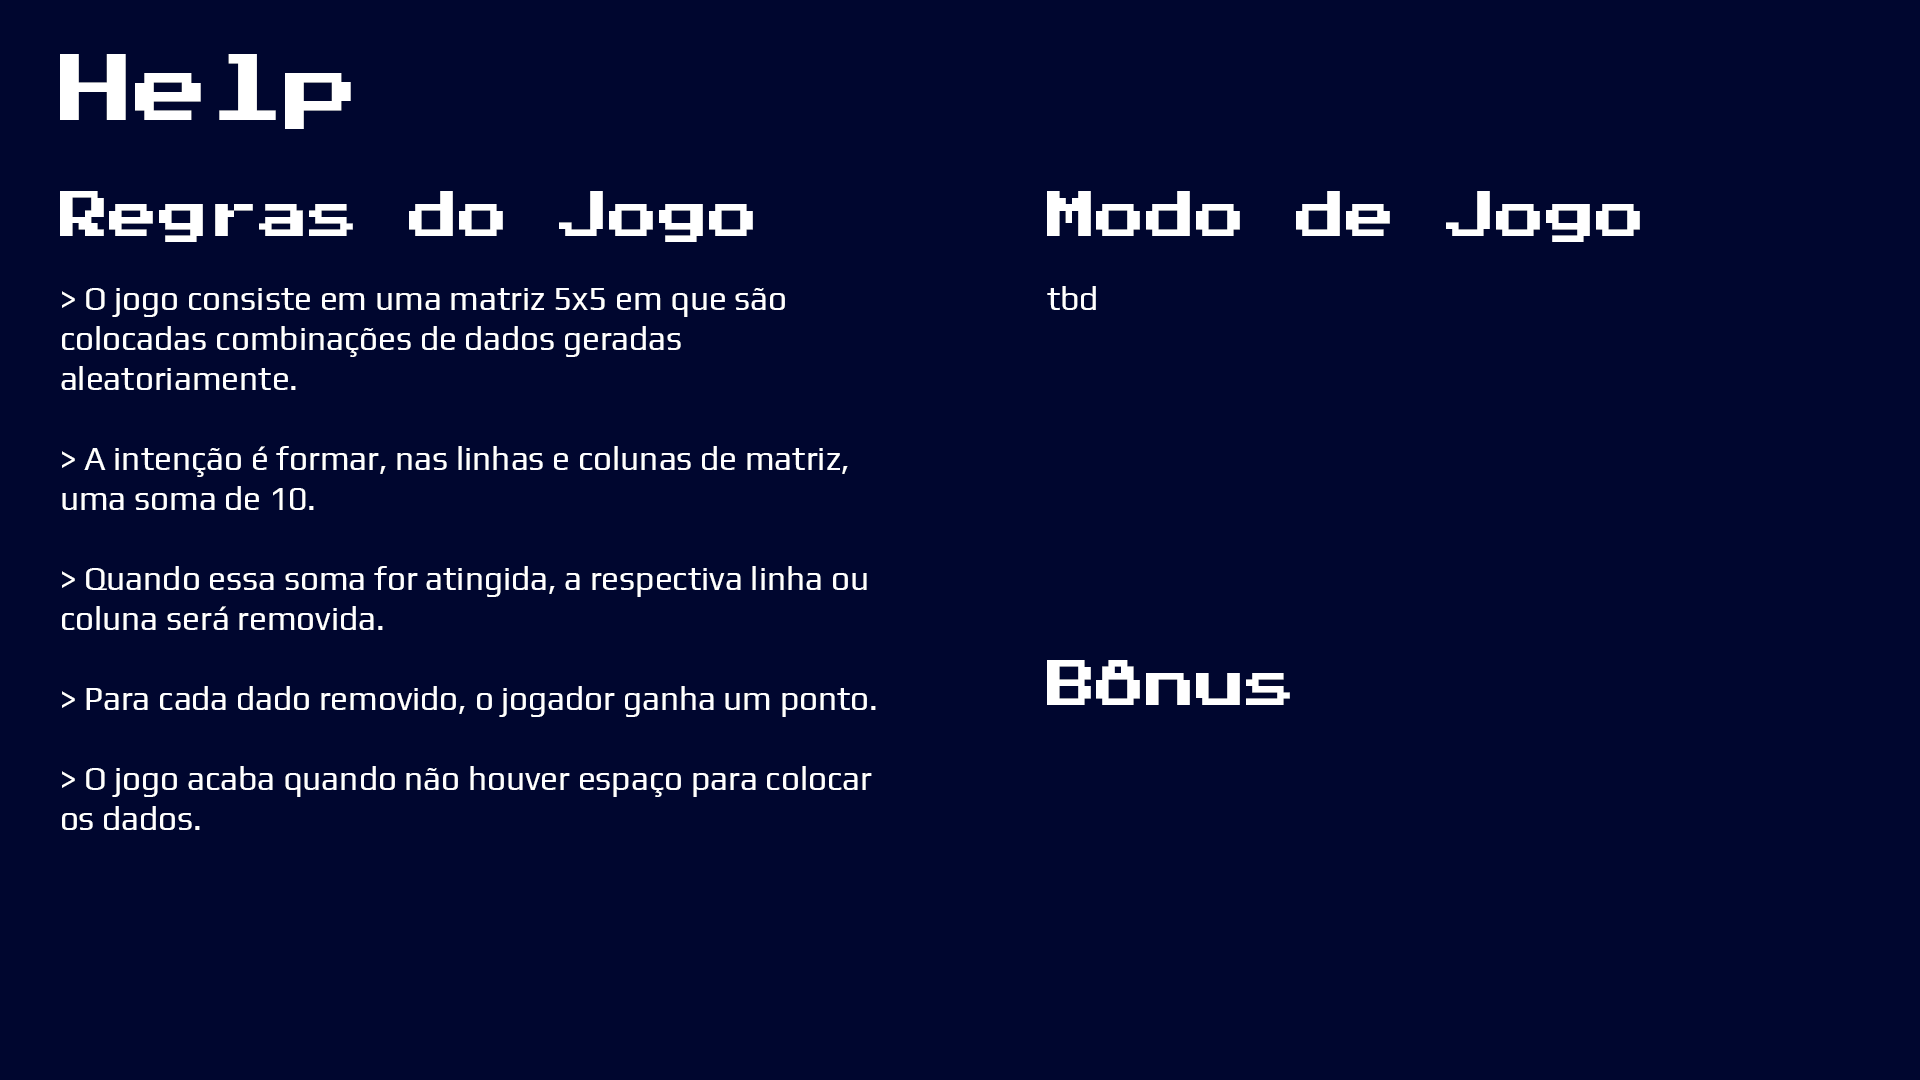
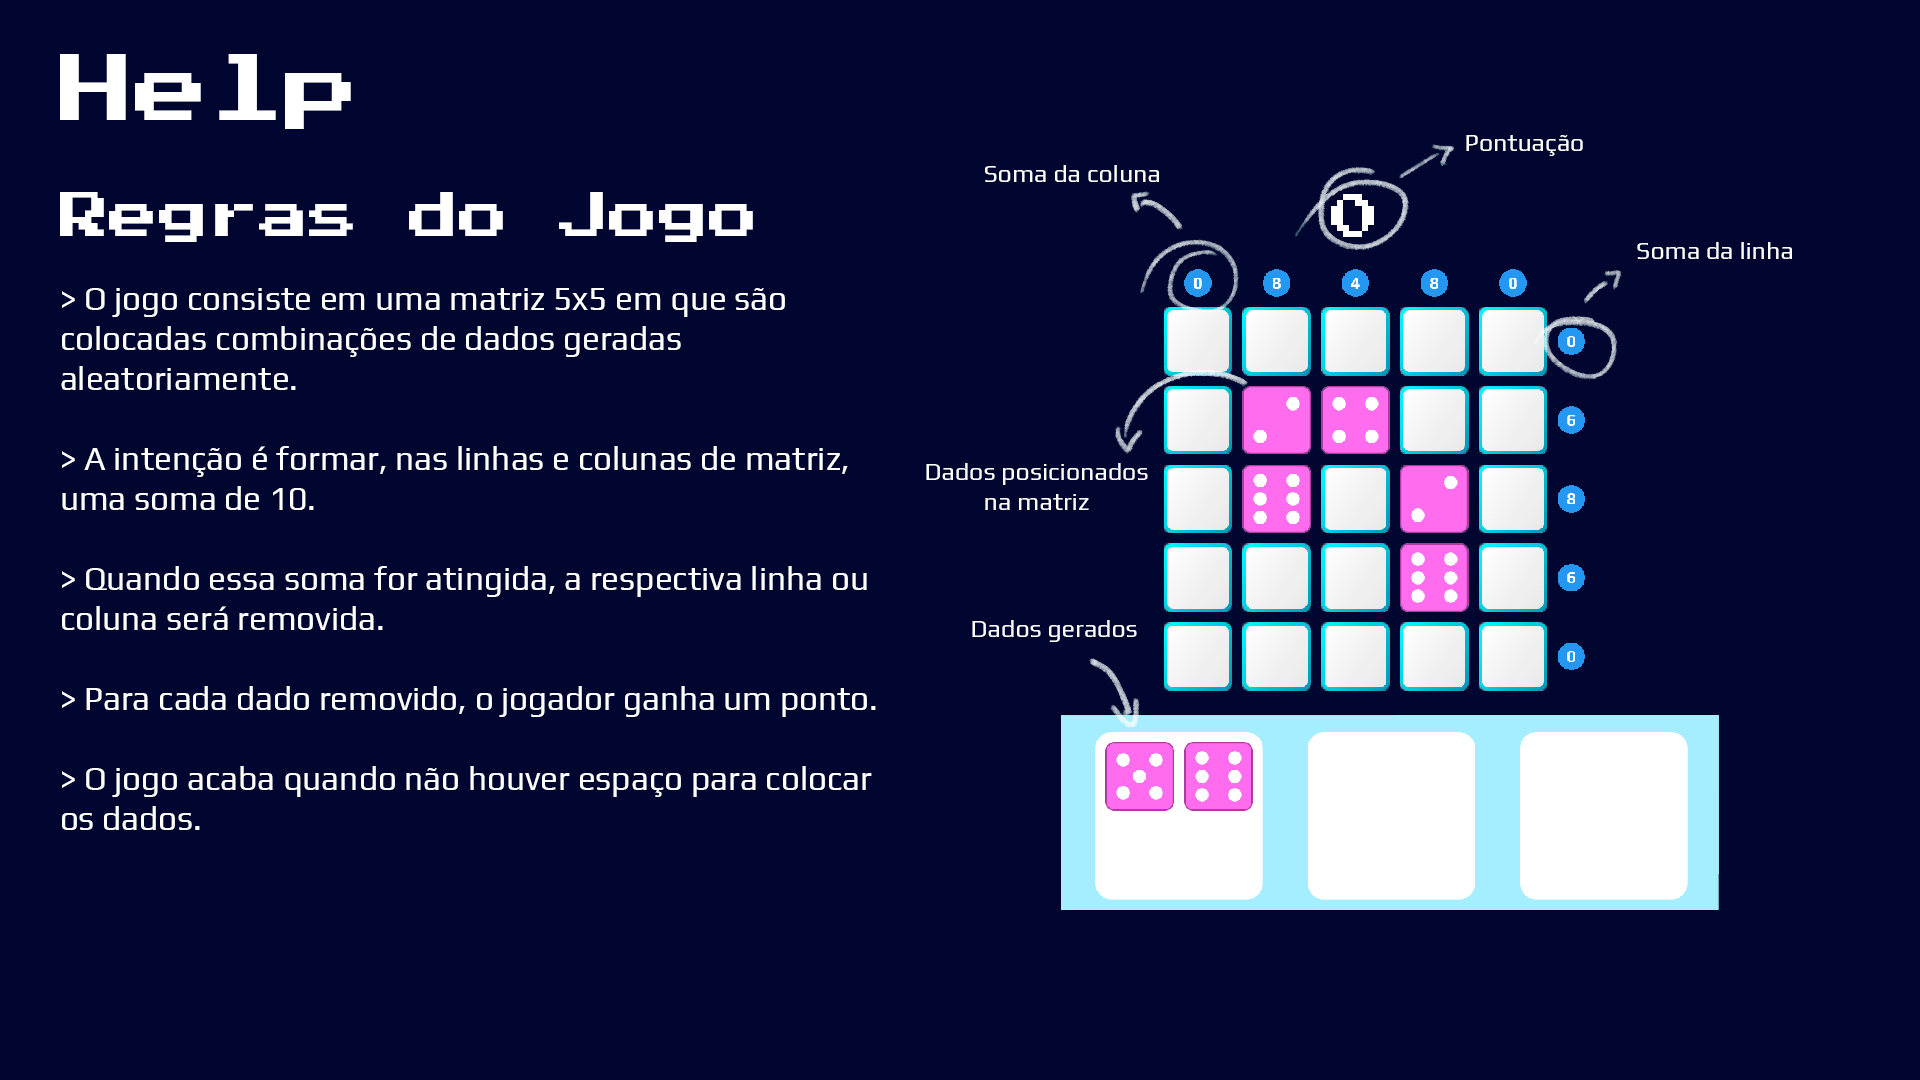
Finaliza help, adiciona easter egg

Changed region(s): [[0.4688, 0.1528, 0.9375, 0.8556], [0.75, 0.1222, 0.8125, 0.1528]]

diff --git a/Final/main.c b/Final/main.c
@@ -1860,12 +1860,13 @@ void help(ALLEGRO_DISPLAY* display)
     ALLEGRO_FONT* font_2p_regular_24 = al_load_ttf_font("media/fonts/PressStart2P-regular.ttf", 24, 0);
     ALLEGRO_TIMER* timer_fps = al_create_timer(1.0 / 60.0);
     ALLEGRO_BITMAP* pag1 = al_load_bitmap("media/images/pag1.png");
-    ALLEGRO_BITMAP* pag2 = al_load_bitmap("media/images/pag1.png");
-    ALLEGRO_BITMAP* pag3 = al_load_bitmap("media/images/pag1.png");
-    ALLEGRO_BITMAP* pag4 = al_load_bitmap("media/images/pag1.png");
+    ALLEGRO_BITMAP* pag2 = al_load_bitmap("media/images/pag2.png");
+    ALLEGRO_BITMAP* pag3 = al_load_bitmap("media/images/pag3.png");
+    ALLEGRO_BITMAP* pag4 = al_load_bitmap("media/images/pag4.png");
     ALLEGRO_BITMAP* botao_voltar = al_load_bitmap("media/images/buttons/voltar.png");
     ALLEGRO_BITMAP* prox_pag = al_load_bitmap("media/images/buttons/prox_pag.png");
     ALLEGRO_BITMAP* botao_menu = al_load_bitmap("media/images/buttons/menu_peq.png");
+    ALLEGRO_BITMAP* easter_egg_image = al_load_bitmap("media/images/easter_egg.jpg");
     
     ALLEGRO_EVENT_QUEUE* queue = al_create_event_queue();
     al_register_event_source(queue, al_get_mouse_event_source());
@@ -1878,6 +1879,8 @@ void help(ALLEGRO_DISPLAY* display)
     int click = 0;
     int num = 0;
     int pagina = 1;
+
+    bool easter_egg = false;
 
     bool update = true;
     al_start_timer(timer_fps);
@@ -1898,6 +1901,20 @@ void help(ALLEGRO_DISPLAY* display)
                 x_mouse = state.x;
                 y_mouse = state.y;
                 click = 1;
+                
+                if (pagina == 4)
+                {
+                    if (x_mouse >= 378 && x_mouse <= 516 && y_mouse >= 442 && y_mouse <= 573)
+                    {
+                        easter_egg = true;
+                    }
+                    
+                    else
+                    {
+                        easter_egg = false;
+                    }
+                }
+                
         }               
     
         char contador[32];
@@ -1915,6 +1932,11 @@ void help(ALLEGRO_DISPLAY* display)
                 break;
             case 4:
                 al_draw_bitmap(pag4, 0, 0, 0);
+                if (easter_egg)
+                {
+                    al_draw_bitmap(easter_egg_image, LARGURA_TELA/2-600, ALTURA_TELA/2-393, 0);
+                }
+            
                 break;
         }
 
